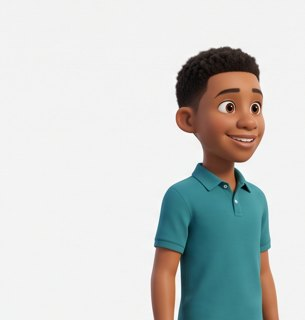
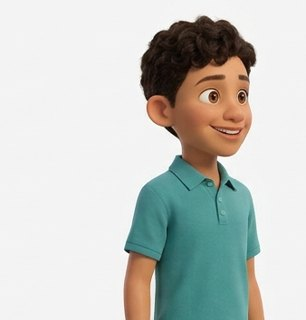
Mateo pasa a piel triguena en el elenco 3D
A pedido del usuario (dejar solo 1 personaje de piel oscura, Nadia): se
regenero Mateo en Gemini con piel clara tan/olivo, mismo polo verde azulado,
pelo y ropa. Se re-cortaron sus 3 vistas y se subio CAST_V a 2026-09-17b para
que el navegador tome el arte nuevo en vez del cacheado. teen.js reselado
(22972233) en index.html.

diff --git a/nis-fun/engine/index.html b/nis-fun/engine/index.html
@@ -785,7 +785,7 @@ input:focus-visible,textarea:focus-visible,select:focus-visible{outline:3px soli
 <script src="backend.js?v=a2a5e35f"></script>
 <!-- secundaria: piel propia y Grammar Lab (ver teen.js); los iconos 3D de Cambridge son los del portal -->
 <script src="../../cambridge-icons.js?v=b0b90bf0"></script>
-<script src="teen.js?v=8b1c7776"></script>
+<script src="teen.js?v=22972233"></script>
 <main id="app"><div class="app-loading" role="status" aria-live="polite">
   <div><span aria-hidden="true"></span><strong id="splash-h2">Preparing your course…</strong>
     <small id="splash-sub">Loading activities and illustrations.</small></div></div></main>

diff --git a/nis-fun/engine/teen.js b/nis-fun/engine/teen.js
@@ -29,7 +29,7 @@ window.TEEN = (function () {
   'use strict';
 
   const TEEN_V = '2026-09-16e';   // sube al cambiar fotos o audio del lab
-  const CAST_V = '2026-09-17';    // arte 3D del elenco (assets/characters/cast)
+  const CAST_V = '2026-09-17b';   // arte 3D del elenco (assets/characters/cast)
 
   const NIV = {
     a1: { name: 'A1 Foundations', full: 'A1 Foundations · the grammar before A2 Key', cefr: 'A1', icon: 'course',
